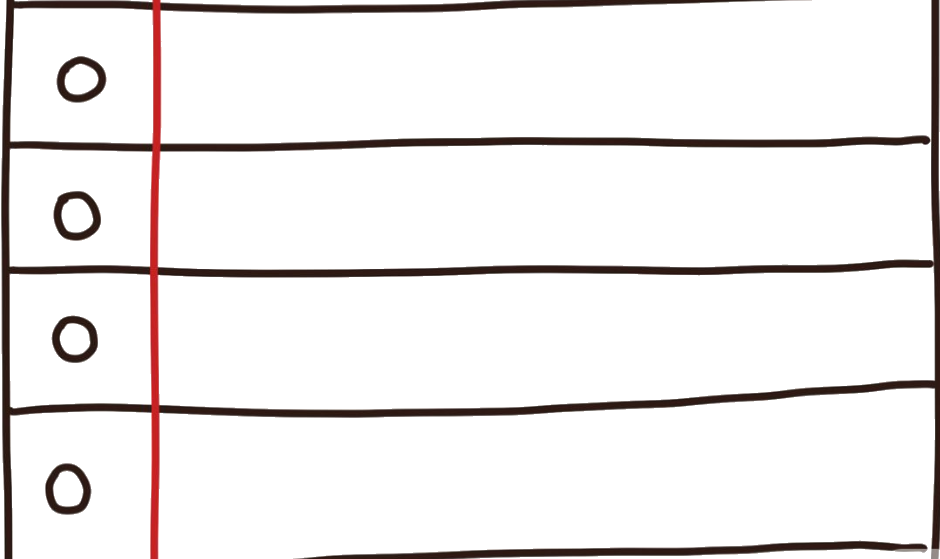
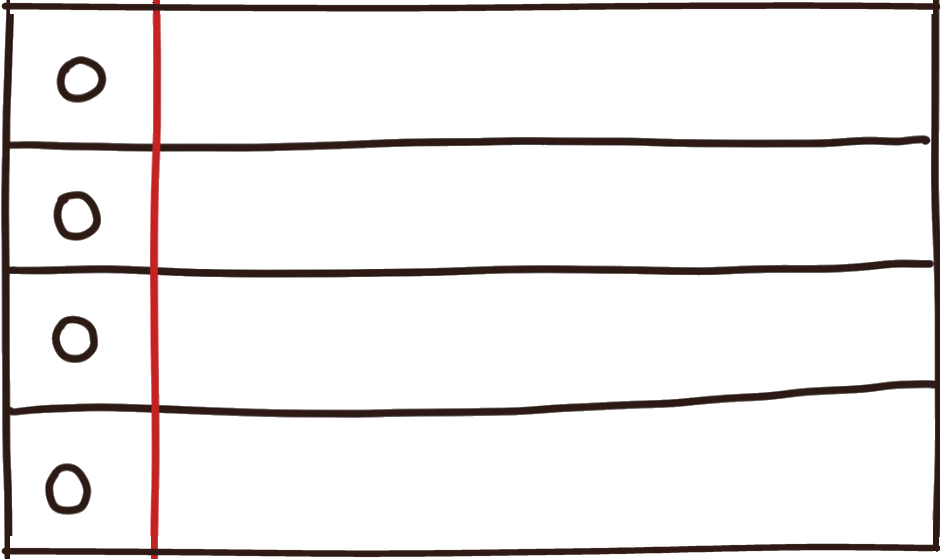
Insan Hayawan Jamad TV lobby: close the list sketch's frame
The list-rows drawing was cropped tight, so its top edge ran off the image
at the right and its bottom edge at the left, and those corners looked
faded. Both edges are redrawn as one continuous stroke in the same ink and
weight, the red margin line kept, and a grey smudge in the bottom-right
corner removed. The CSS reference gets a cache token.

Claude-Session: https://claude.ai/code/session_017RAk3Sqv87kcgAY89GZmK2

Changed region(s): [[0.0, 0.0, 1.0, 0.0304], [0.0, 0.9732, 0.833, 1.0], [0.833, 0.9428, 1.0, 1.0]]

diff --git a/apps/web/insan-hayawan-jamad-lobby.html b/apps/web/insan-hayawan-jamad-lobby.html
@@ -52,7 +52,7 @@
   .tv-config{ font-size:15px; }
   .tv-list{
     position:relative; width:440px; height:262px;
-    background:url(assets/ihj/list-rows.png) center/100% 100% no-repeat #fff;
+    background:url(assets/ihj/list-rows.png?v=20261028) center/100% 100% no-repeat #fff;
     padding-inline-start:90px; padding-inline-end:20px;
   }
   .tv-list #tv-players{ height:100%; display:grid; grid-template-rows:repeat(4,1fr); grid-auto-flow:column; grid-auto-columns:minmax(0,1fr); column-gap:14px; }
